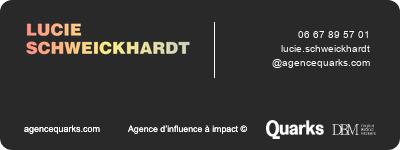
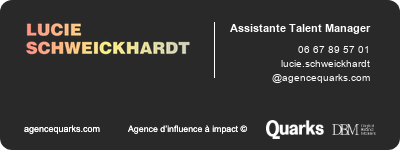
Ajouter le rôle d’assistante Talent Manager à Lucie
* Ajouter le rôle d’assistante Talent Manager à Lucie

* Ajouter le rôle d’assistante Talent Manager à Lucie

* Corriger la mise en forme du rôle de Lucie

* Corriger la mise en forme du rôle de Lucie

* Mettre à jour l’aperçu de la signature de Lucie

diff --git a/signatures/lucie-schweickhardt/signature.html b/signatures/lucie-schweickhardt/signature.html
@@ -8,6 +8,7 @@
 <img src="https://raw.githubusercontent.com/raphaeldumaslevillain-commits/signature-mail-quarks-lea/main/signatures/lucie-schweickhardt/identite.png" width="166" alt="Lucie Schweickhardt" style="display:block;border:0;width:165.6px;height:auto;">
 </td><td width="162" valign="top" style="width:162px;padding:5px 0 0;">
 <table role="presentation" width="162" cellpadding="0" cellspacing="0" border="0" style="width:162px;table-layout:fixed;border-collapse:separate;border-spacing:0;"><tr><td align="right" style="border-left:1px solid #fff;padding:0 6px 0 8px;height:55px;vertical-align:top;text-align:right;">
+<div style="font-size:11px;line-height:15px;font-weight:700;white-space:nowrap;">Assistante Talent Manager</div>
 <div style="font-size:10px;line-height:14px;padding-top:6px;white-space:normal;"><a href="tel:+33667895701" style="color:#fff;text-decoration:none;">06 67 89 57 01</a><br><a href="mailto:lucie.schweickhardt@agencequarks.com" style="color:#fff;text-decoration:none;">lucie.schweickhardt@<br>agencequarks.com</a></div>
 </td></tr></table></td></tr>
 <tr><td colspan="2" height="31" style="height:31px;font-size:0;line-height:31px;">&nbsp;</td></tr>

diff --git a/signatures/lucie-schweickhardt/index.html b/signatures/lucie-schweickhardt/index.html
@@ -8,6 +8,7 @@
 <img src="identite.png" width="166" alt="Lucie Schweickhardt" style="display:block;border:0;width:165.6px;height:auto;">
 </td><td width="162" valign="top" style="width:162px;padding:5px 0 0;">
 <table role="presentation" width="162" cellpadding="0" cellspacing="0" border="0" style="width:162px;table-layout:fixed;border-collapse:separate;border-spacing:0;"><tr><td align="right" style="border-left:1px solid #fff;padding:0 6px 0 8px;height:55px;vertical-align:top;text-align:right;">
+<div style="font-size:11px;line-height:15px;font-weight:700;white-space:nowrap;">Assistante Talent Manager</div>
 <div style="font-size:10px;line-height:14px;padding-top:6px;white-space:normal;"><a href="tel:+33667895701" style="color:#fff;text-decoration:none;">06 67 89 57 01</a><br><a href="mailto:lucie.schweickhardt@agencequarks.com" style="color:#fff;text-decoration:none;">lucie.schweickhardt@<br>agencequarks.com</a></div>
 </td></tr></table></td></tr>
 <tr><td colspan="2" height="31" style="height:31px;font-size:0;line-height:31px;">&nbsp;</td></tr>
